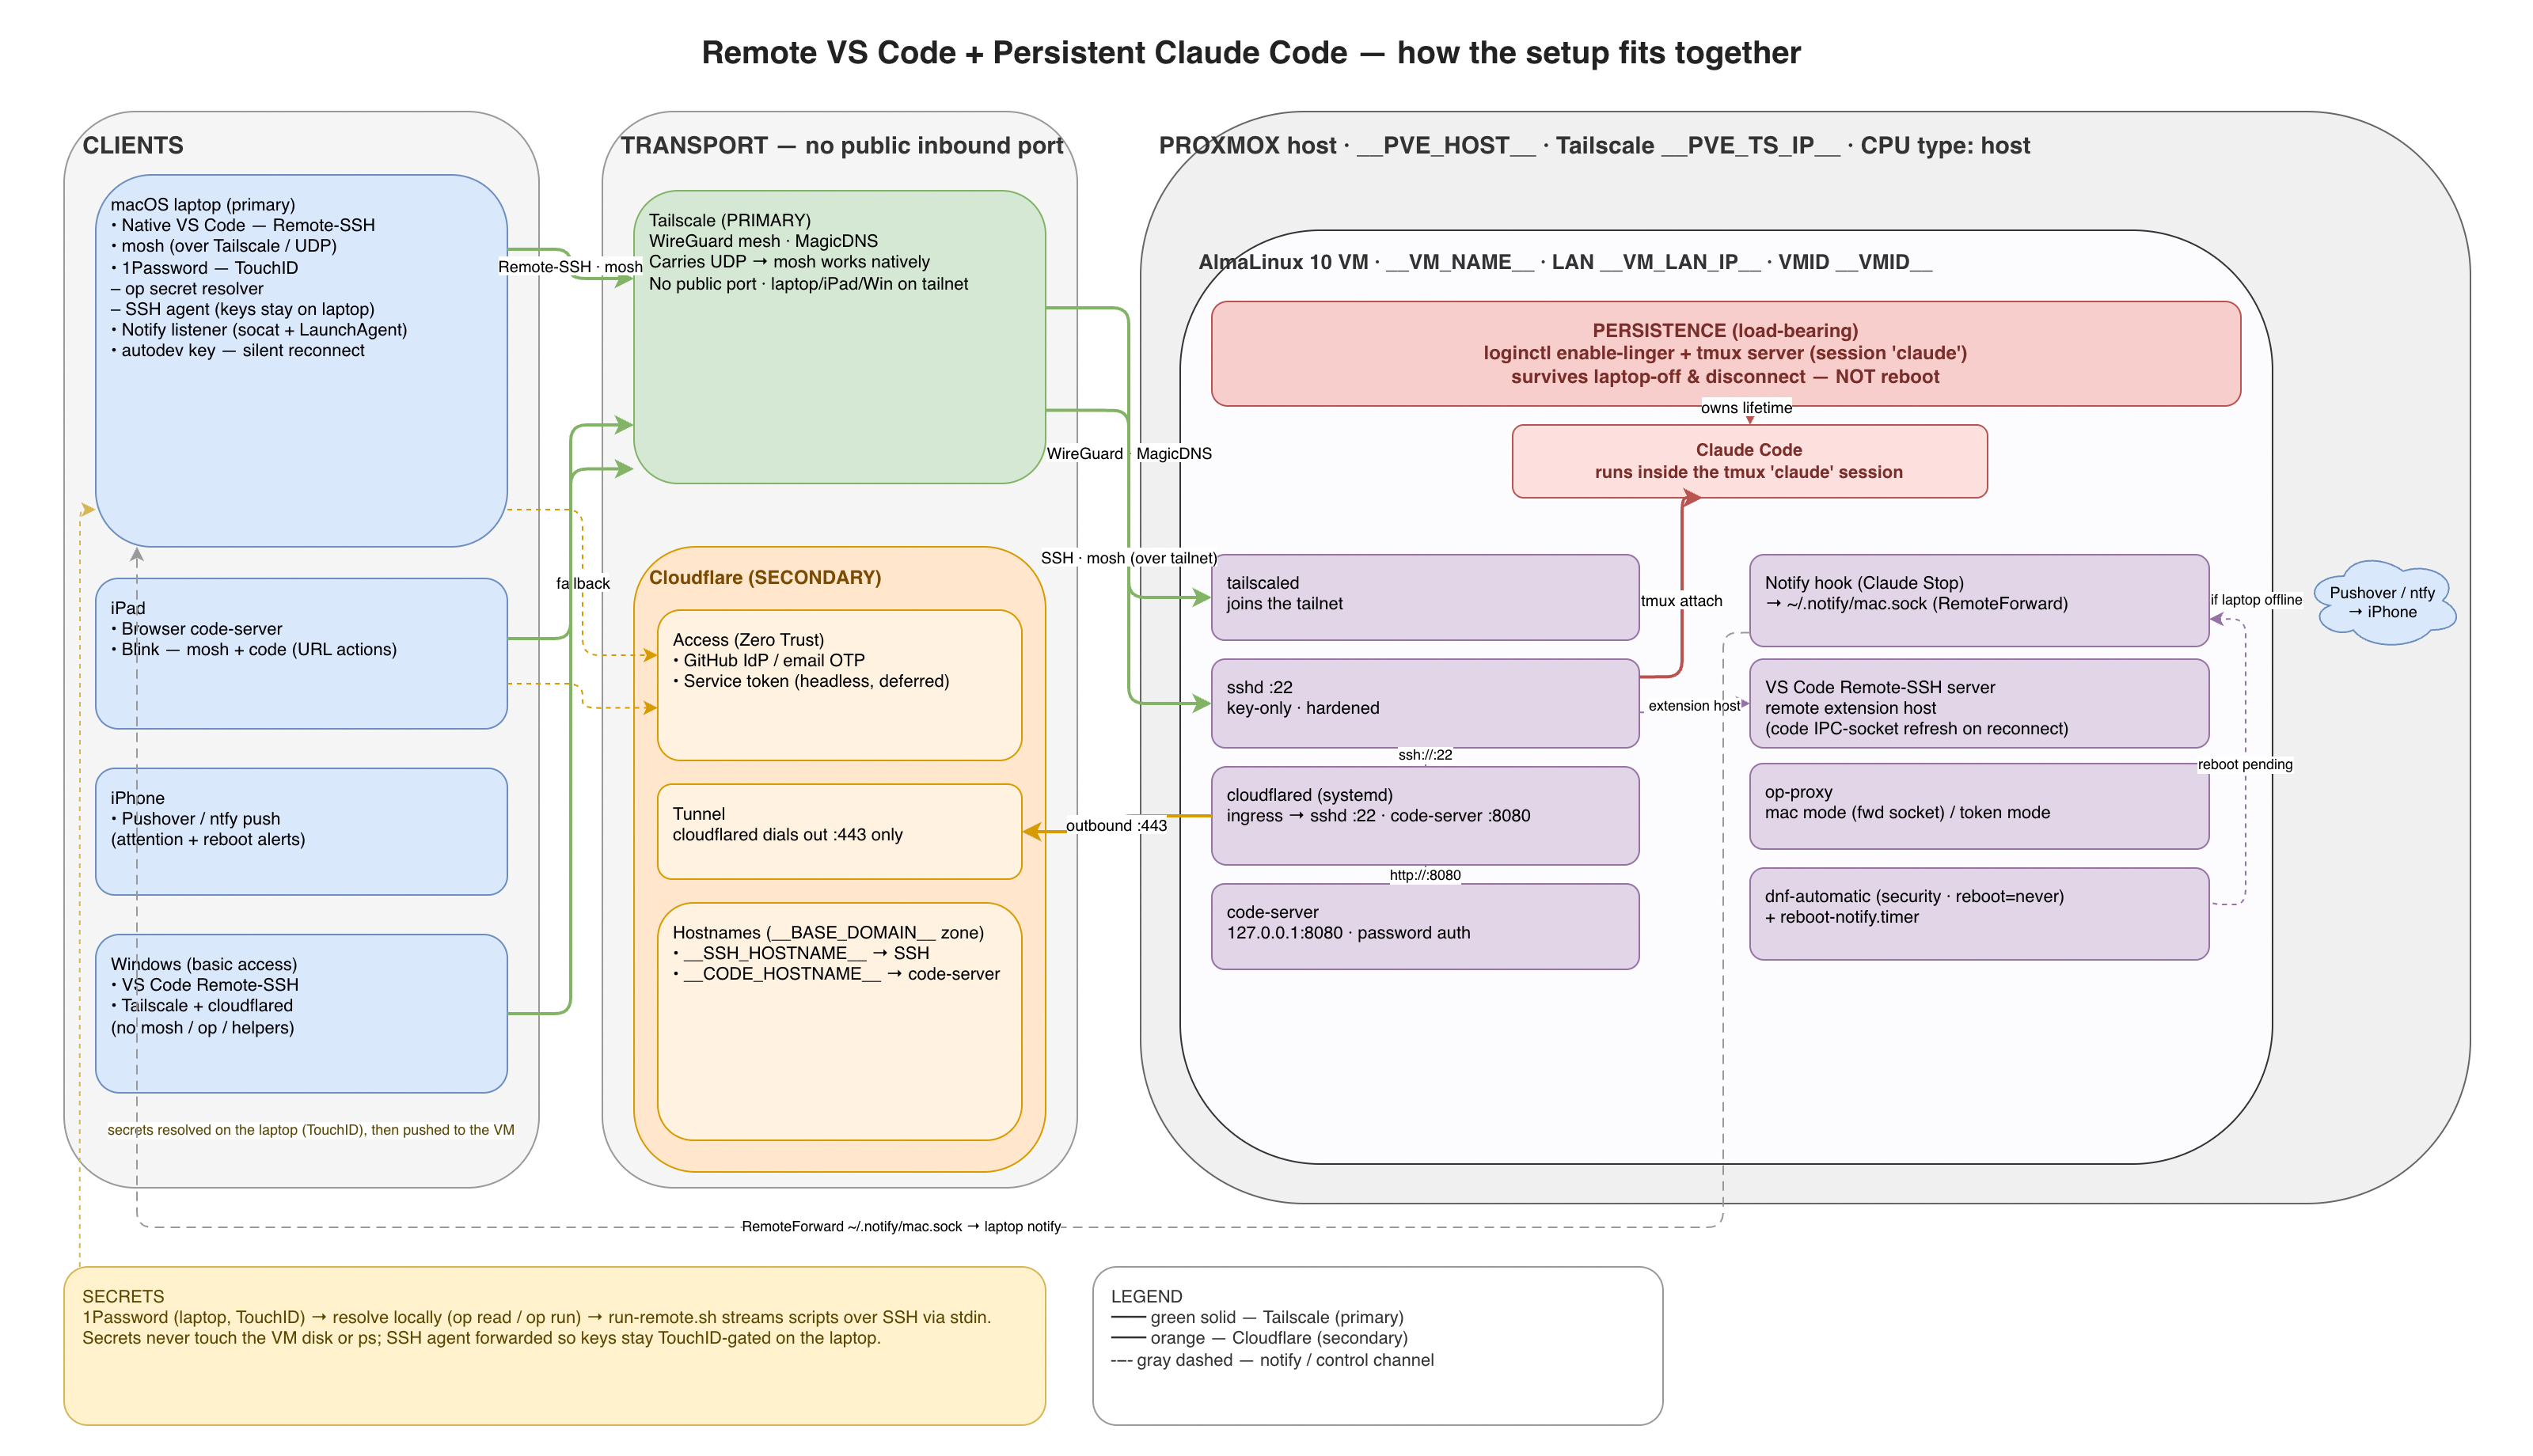
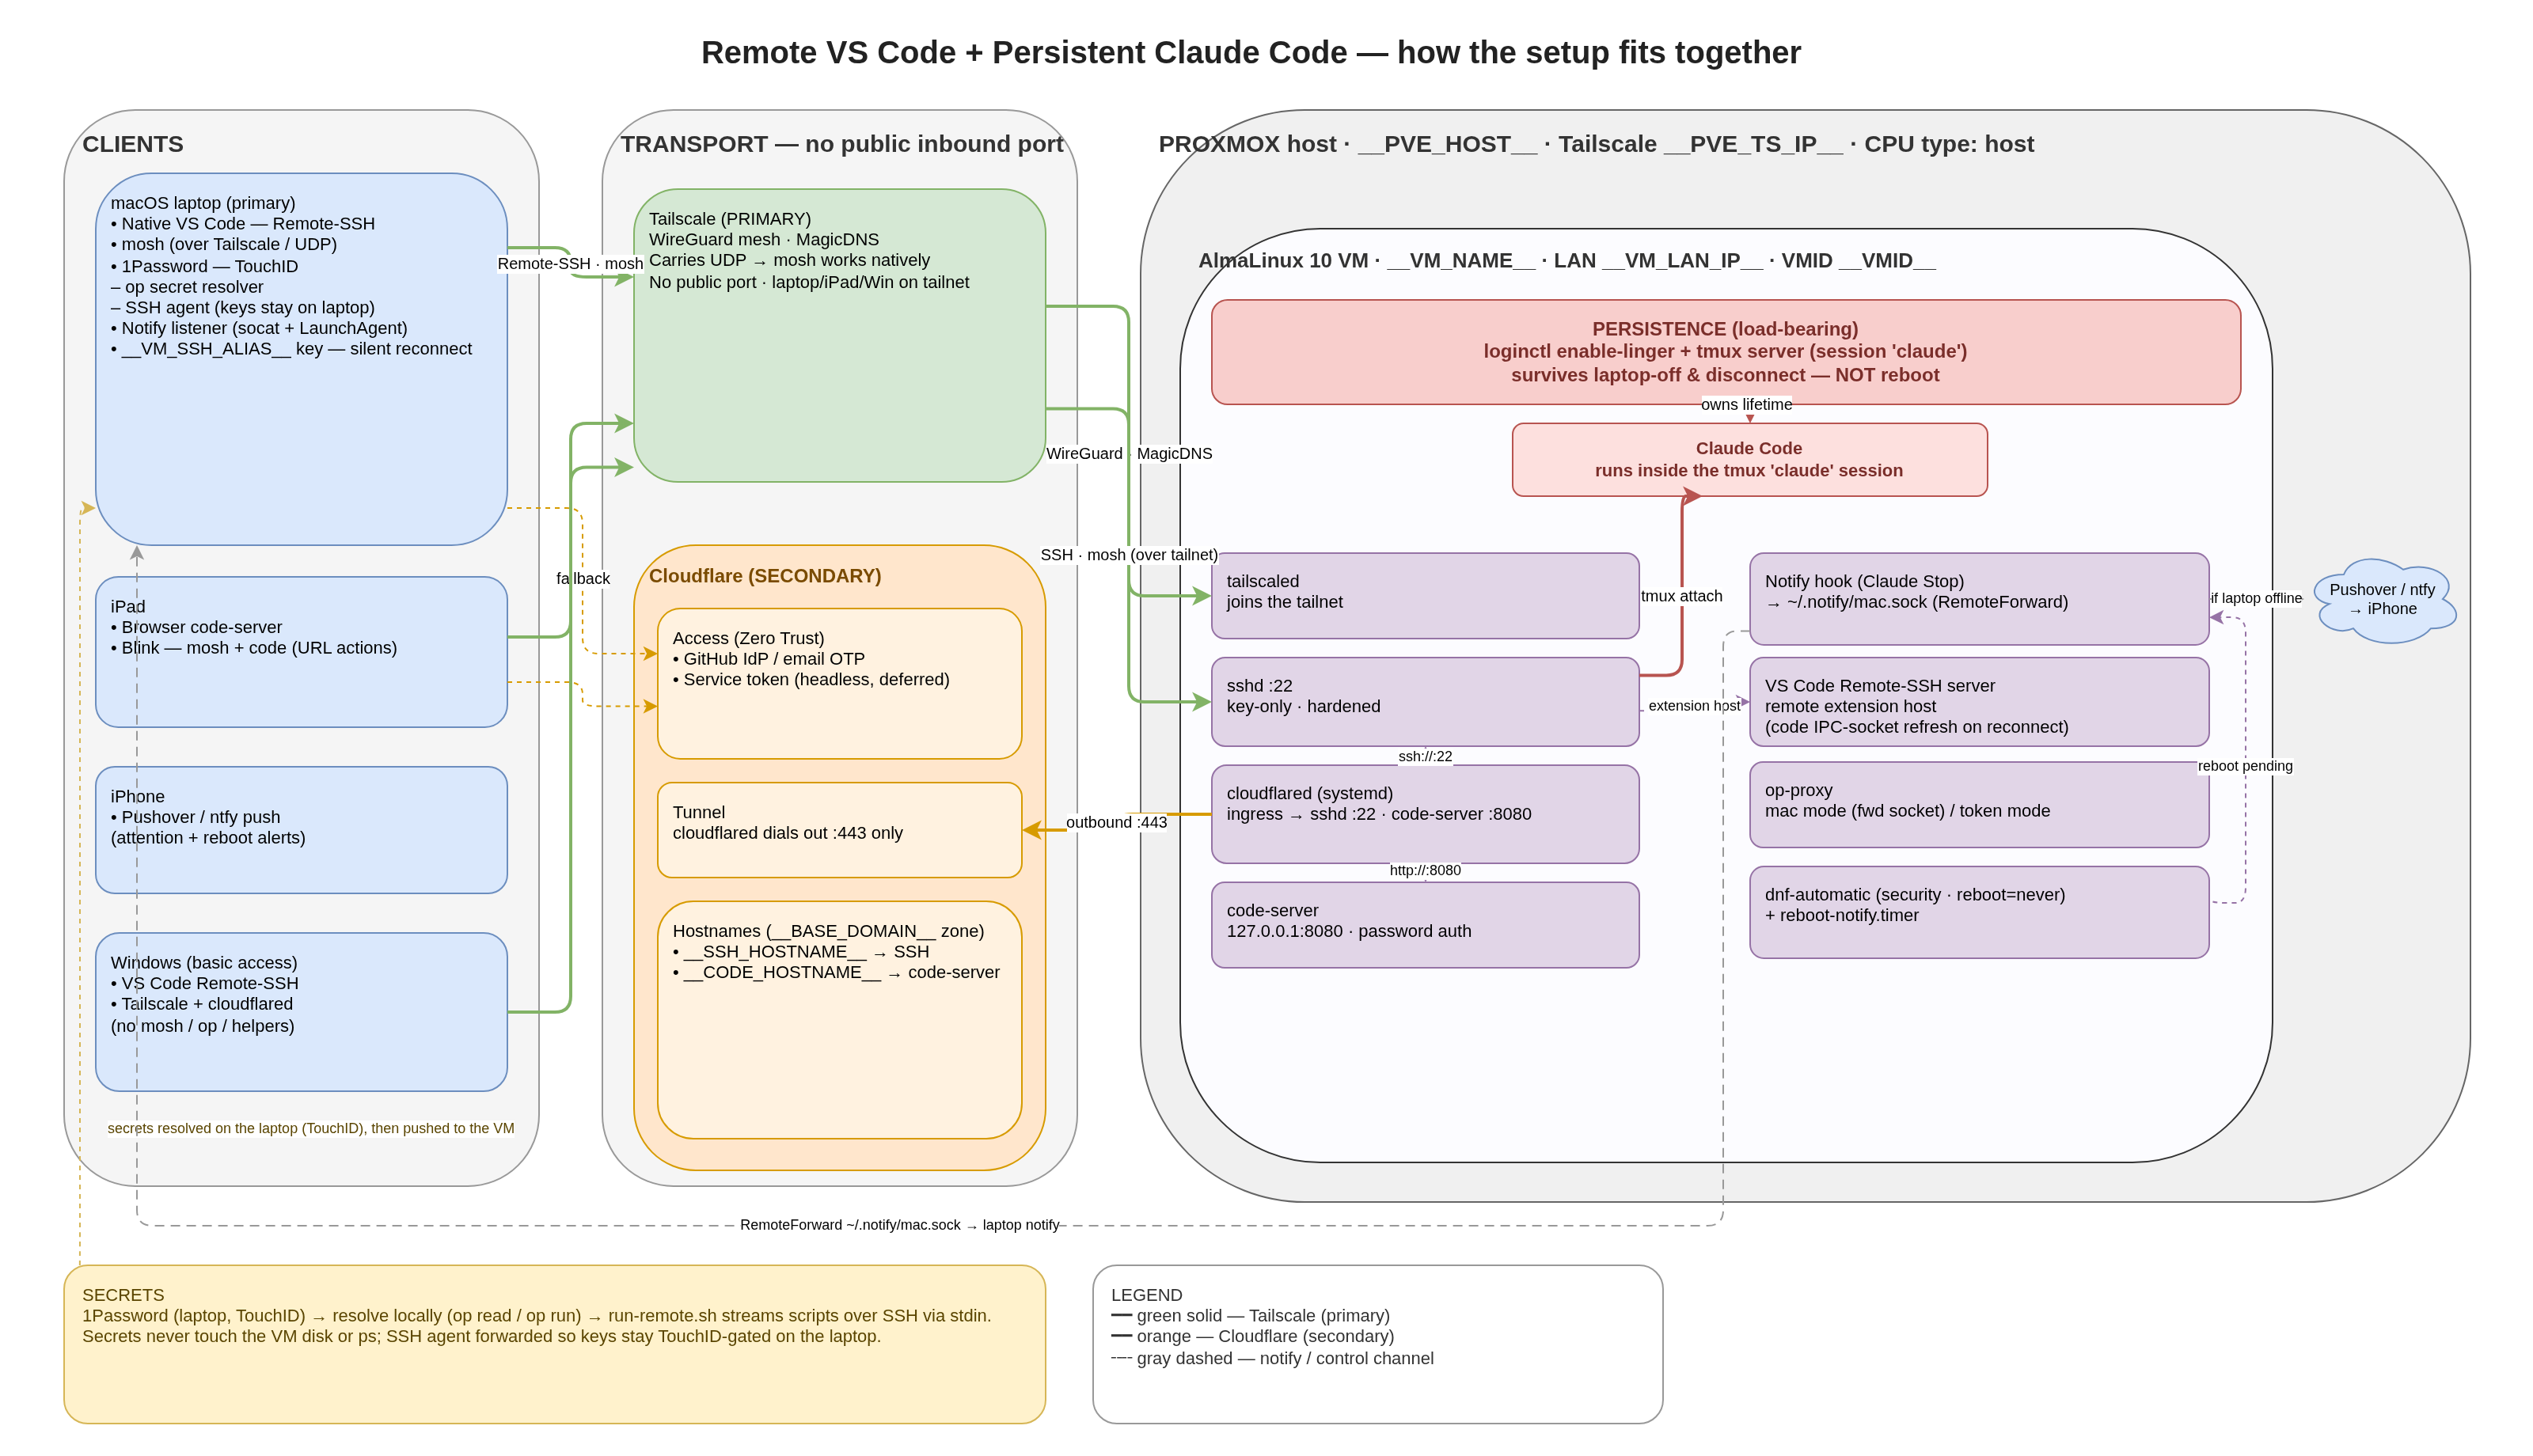
sync: mask VM SSH alias as __VM_SSH_ALIAS__ (incl. renamed mac/vm-alias-key-setup.sh)

diff --git a/README.md b/README.md
@@ -129,16 +129,16 @@ they're marked **[manual]**.
 
 Quality-of-life layers added after the core is working. Each is independent.
 
-**A. Silent VS Code host (`autodev`) — no TouchID on resume.** The 1Password SSH agent
+**A. Silent VS Code host (`__VM_SSH_ALIAS__`) — no TouchID on resume.** The 1Password SSH agent
 re-locks on sleep, so VS Code Remote-SSH re-prompts for TouchID on every reconnect. A
 dedicated key whose passphrase lives in the macOS login keychain connects silently, while
 `ssh __VM_NAME__` keeps prompting as before.
 ```bash
-./mac/autodev-key-setup.sh          # gen key, keychain, 1Password backup, install pubkey
+./mac/vm-alias-key-setup.sh          # gen key, keychain, 1Password backup, install pubkey
 ```
-Then add the printed `Host autodev` block to `~/.ssh/config` **above `Host *`** (first-match;
-`IdentityAgent none` must win). Connect VS Code to `autodev`. Trade-off: anyone with your
-*unlocked* Mac can `ssh autodev` with no challenge — that is the point. Keep the internet-facing
+Then add the printed `Host __VM_SSH_ALIAS__` block to `~/.ssh/config` **above `Host *`** (first-match;
+`IdentityAgent none` must win). Connect VS Code to `__VM_SSH_ALIAS__`. Trade-off: anyone with your
+*unlocked* Mac can `ssh __VM_SSH_ALIAS__` with no challenge — that is the point. Keep the internet-facing
 `__VM_NAME__-cf` on the 1Password agent (TouchID) instead.
 
 **B. Remote attention notifications.** Make Claude on the VM raise a macOS notification on the
@@ -183,7 +183,7 @@ sends a local Mac path). For a screenshot hotkey, bind `mac/rpaste-upload.sh` in
 (e.g. BetterTouchTool). **[manual]** A Finder **Quick Action** (Automator → "Quick Action" receiving
 folders → Run Shell Script) makes a right-click "Open in VS Code Remote":
 ```zsh
-host="autodev"   # or __VM_NAME__-cf for the Cloudflare fallback
+host="__VM_SSH_ALIAS__"   # or __VM_NAME__-cf for the Cloudflare fallback
 cli="/usr/local/bin/code"; [ -x "$cli" ] || cli="/Applications/Visual Studio Code.app/Contents/Resources/app/bin/code"
 for f in "$@"; do "$cli" --new-window --folder-uri "vscode-remote://ssh-remote+$host/home/__DEV_USER__/workspace/${f:t}"; done
 ```
@@ -379,6 +379,7 @@ Fill these in (all live in `env.example`; some also appear in `config/ssh-config
 | `__CODE_HOSTNAME__` | Public hostname for browser code-server | `code.example.com` |
 | `__CF_ACCOUNT__` | Cloudflare account name | `Personal` |
 | `__VM_NAME__` | VM name / Tailscale node / SSH host alias / tunnel name | `dev` |
+| `__VM_SSH_ALIAS__` | Silent Remote-SSH host alias (dedicated no-TouchID key, `VM_ALIAS_HOST`) | `dev-auto` |
 | `__DEV_USER__` | Login user on the VM | `dev` |
 | `__MAC_USER__` | Your macOS username (op resolver paths/label) | `alex` |
 | `__PVE_HOST__` | Proxmox host (SSH target for VM creation) | `pve` |